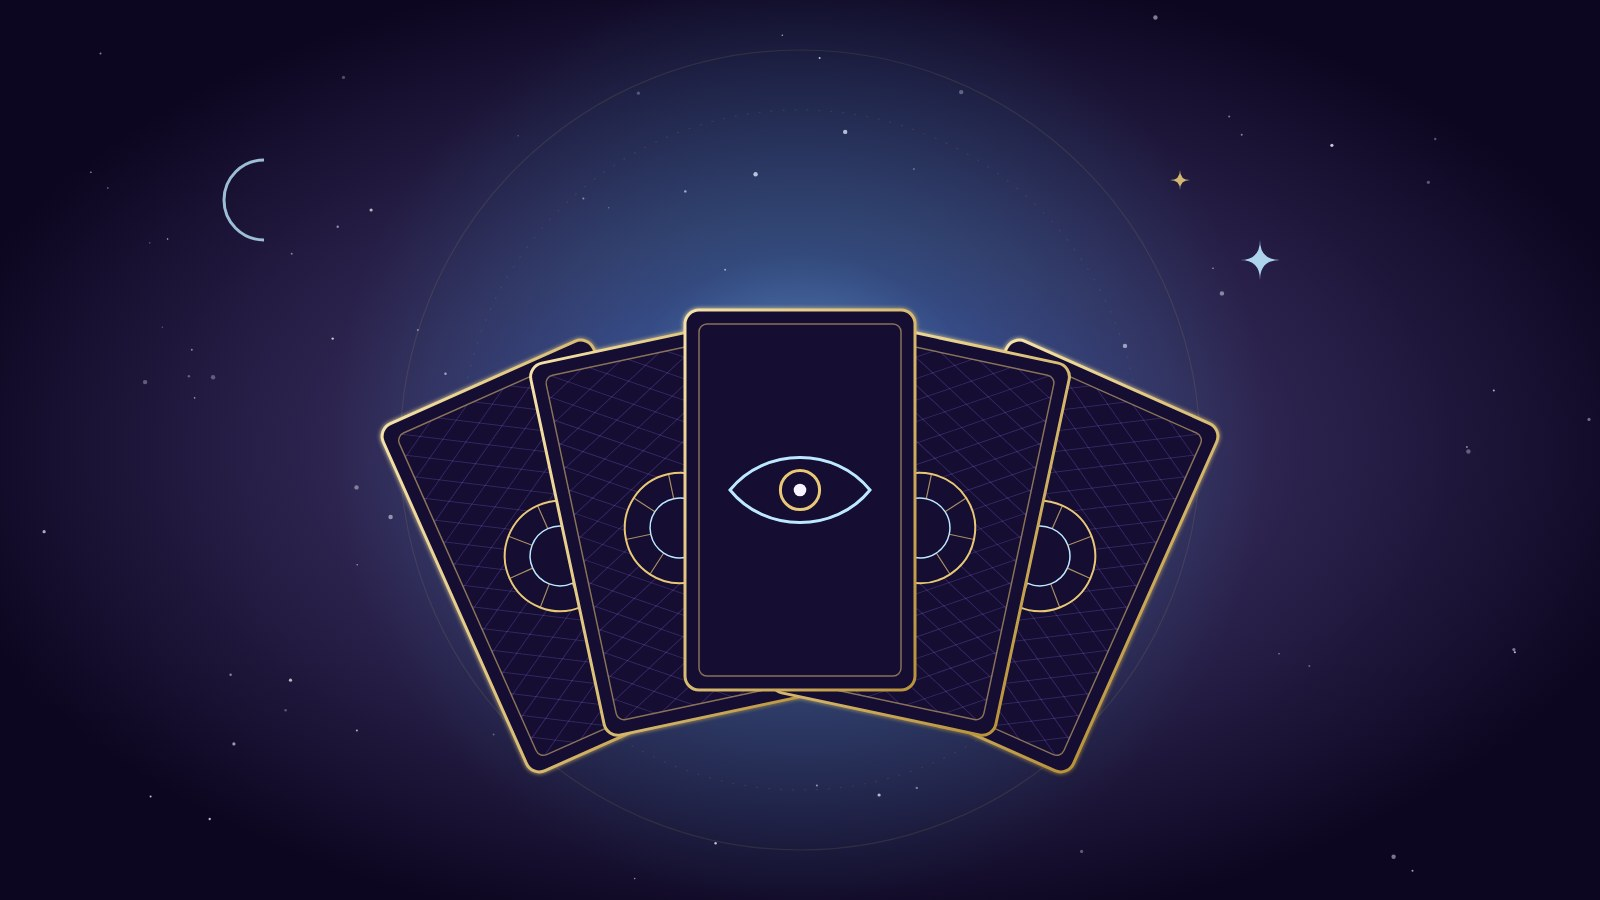
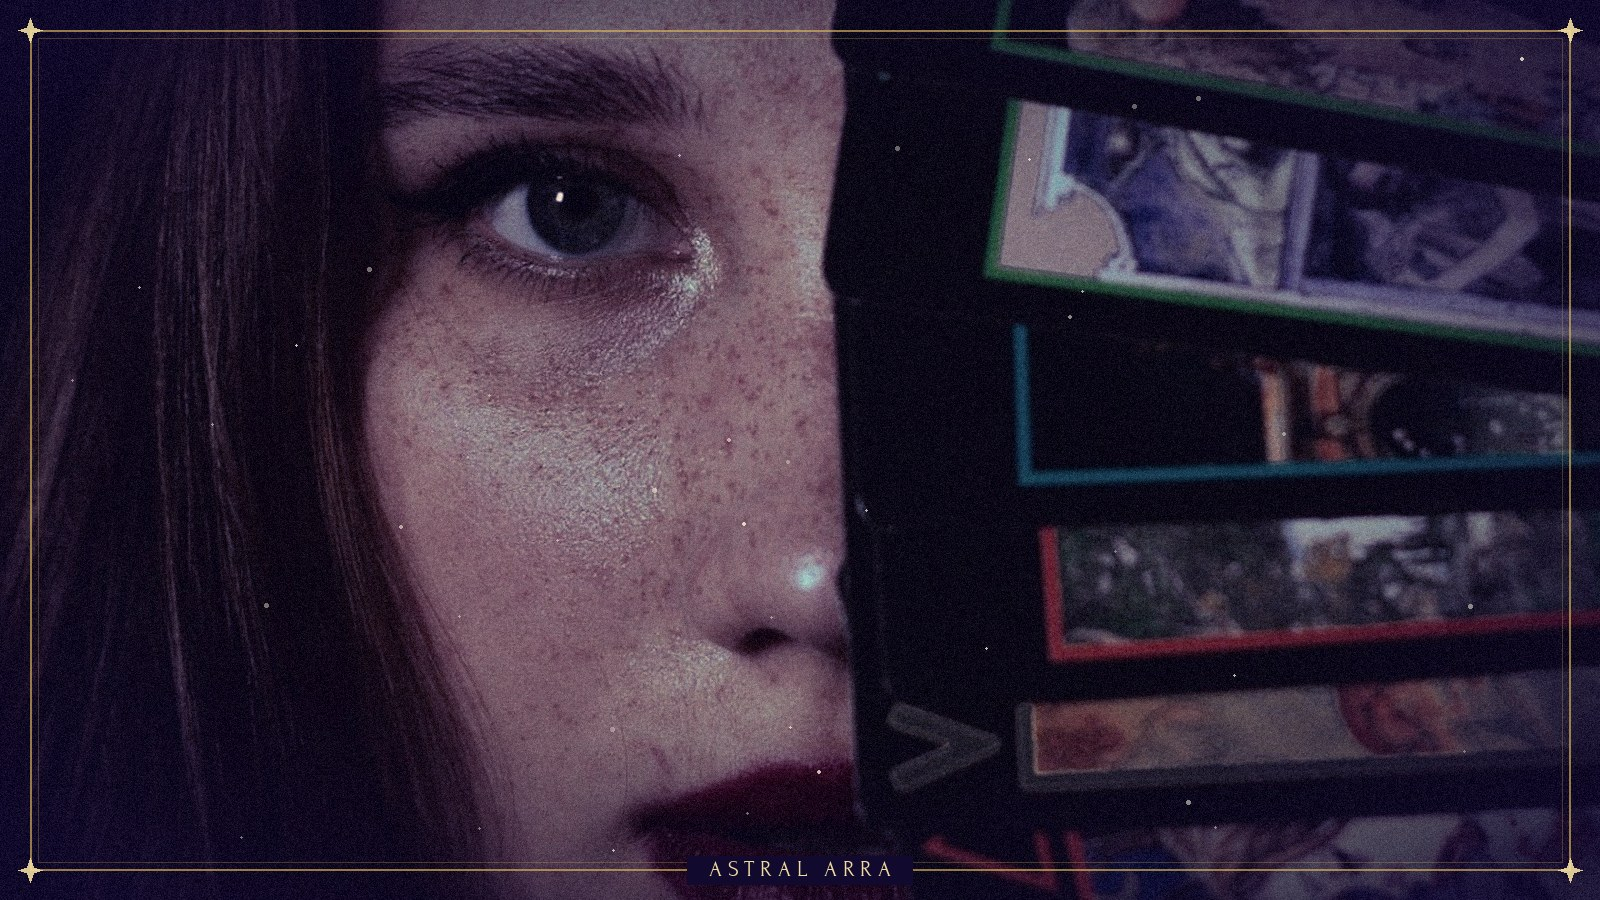
Tips article: new cover, new journal photo, image descriptions
- the woman with the fan of tarot cards becomes the cover (Astral ARRA style);
  the duplicate inline copy is removed
- the illustrated journal is replaced with a photo: writing in a journal by
  candlelight (Unsplash) beside a three-card RWS 1909 spread
- cover alt / og:image:alt and new alt texts (BG + EN)

Claude-Session: https://claude.ai/code/session_01F6KVvv8pLNCJfzAFTS4H2o

diff --git a/src/content/blog/trikove-za-efektivno-gledane-na-taro.md b/src/content/blog/trikove-za-efektivno-gledane-na-taro.md
@@ -5,6 +5,7 @@ author: Astral ARRA
 description: "Как да гледате таро по-точно: ритуал преди разклада, първо впечатление, сигнификатор, прецизни въпроси и техниката „кръстосан разпит“."
 section: taro
 image: "../images/trikove-za-efektivno-gledane-na-taro/cover.jpg"
+imageAlt: "Жена с лунички гледа право в обектива, а половината ѝ лице е скрито зад ветрило от таро карти"
 tags:
   - таро
   - таро гадание
@@ -42,8 +43,6 @@ tags:
 
 *Примерен ритуал:* почукване по картите с думите „Извиквам добрите духове, донесете ми знание“.
 
-![Жена държи ветрило от таро карти пред лицето си](../images/trikove-za-efektivno-gledane-na-taro/04.jpg)
-
 ## 2. Доверете се на първото си впечатление 💫
 
 Когато изтеглите карта, обърнете внимание на първото усещане или мисъл, която Ви идва. Интуицията често говори именно чрез тези първи впечатления. Не се притеснявайте, ако не сте сигурни в значението на картата – просто запишете какво усещате и после потърсете допълнителна информация в книги или онлайн, за да напаснете интуитивните си впечатления.
@@ -56,7 +55,7 @@ tags:
 
 Записването на разкладите е изключително полезно – не веднъж съм го повтаряла. Така проследявате как се развива практиката Ви с времето и забелязвате повторенията и моделите. Дневникът Ви позволява и бързо да „запалвате“ и да намирате синхронизации, значения и модели в гаданията си, характерни само за Вас. Безценно. Наистина нямате представа колко много неща забравяме.
 
-![Отворен таро дневник с бележки и малък разклад от три карти](../images/trikove-za-efektivno-gledane-na-taro/taro-dnevnik.jpg)
+![Ръка записва в таро дневник на светлината на свещ, а до тетрадката лежи разклад от три карти: Асо купи, Тройка жезли и „Слънцето“](../images/trikove-za-efektivno-gledane-na-taro/taro-dnevnik.jpg)
 
 *В дневника се записват:*
 

diff --git a/src/content/blog-en/tips-for-effective-tarot-readings.md b/src/content/blog-en/tips-for-effective-tarot-readings.md
@@ -6,6 +6,7 @@ author: Astral ARRA
 description: "How to read tarot more accurately: a ritual before the spread, first impressions, a significator card, precise questions and the “cross-examination” technique."
 section: taro
 image: "../images/trikove-za-efektivno-gledane-na-taro/cover.jpg"
+imageAlt: "A freckled woman looks straight into the camera, half her face hidden behind a fan of tarot cards"
 tags:
   - tarot
   - tarot reading
@@ -43,8 +44,6 @@ For some of you it's a good idea to have a small ritual – tapping the cards, s
 
 *Example ritual:* tapping the cards while saying "I call upon the good spirits, bring me knowledge".
 
-![A woman holding a fan of tarot cards in front of her face](../images/trikove-za-efektivno-gledane-na-taro/04.jpg)
-
 ## 2. Trust your first impression 💫
 
 When you draw a card, pay attention to the first feeling or thought that comes to you. Intuition often speaks through exactly these first impressions. Don't worry if you're unsure of the card's meaning – just write down what you feel, then look up more information in books or online to fine-tune your intuitive impressions.
@@ -57,7 +56,7 @@ How to tell a genuine first intuition from fear and your own projections is the 
 
 Writing down your spreads is extremely useful – I've said it more than once. It lets you follow how your practice evolves over time and notice repetitions and patterns. The journal also lets you quickly "spark" and find synchronicities, meanings and patterns in your readings that are unique to you. Priceless. You really have no idea how much we forget.
 
-![An open tarot journal with notes and a small three-card spread](../images/trikove-za-efektivno-gledane-na-taro/taro-dnevnik.jpg)
+![A hand writing in a tarot journal by candlelight, beside a three-card spread: the Ace of Cups, the Three of Wands and The Sun](../images/trikove-za-efektivno-gledane-na-taro/taro-dnevnik.jpg)
 
 *What goes into the journal:*
 
